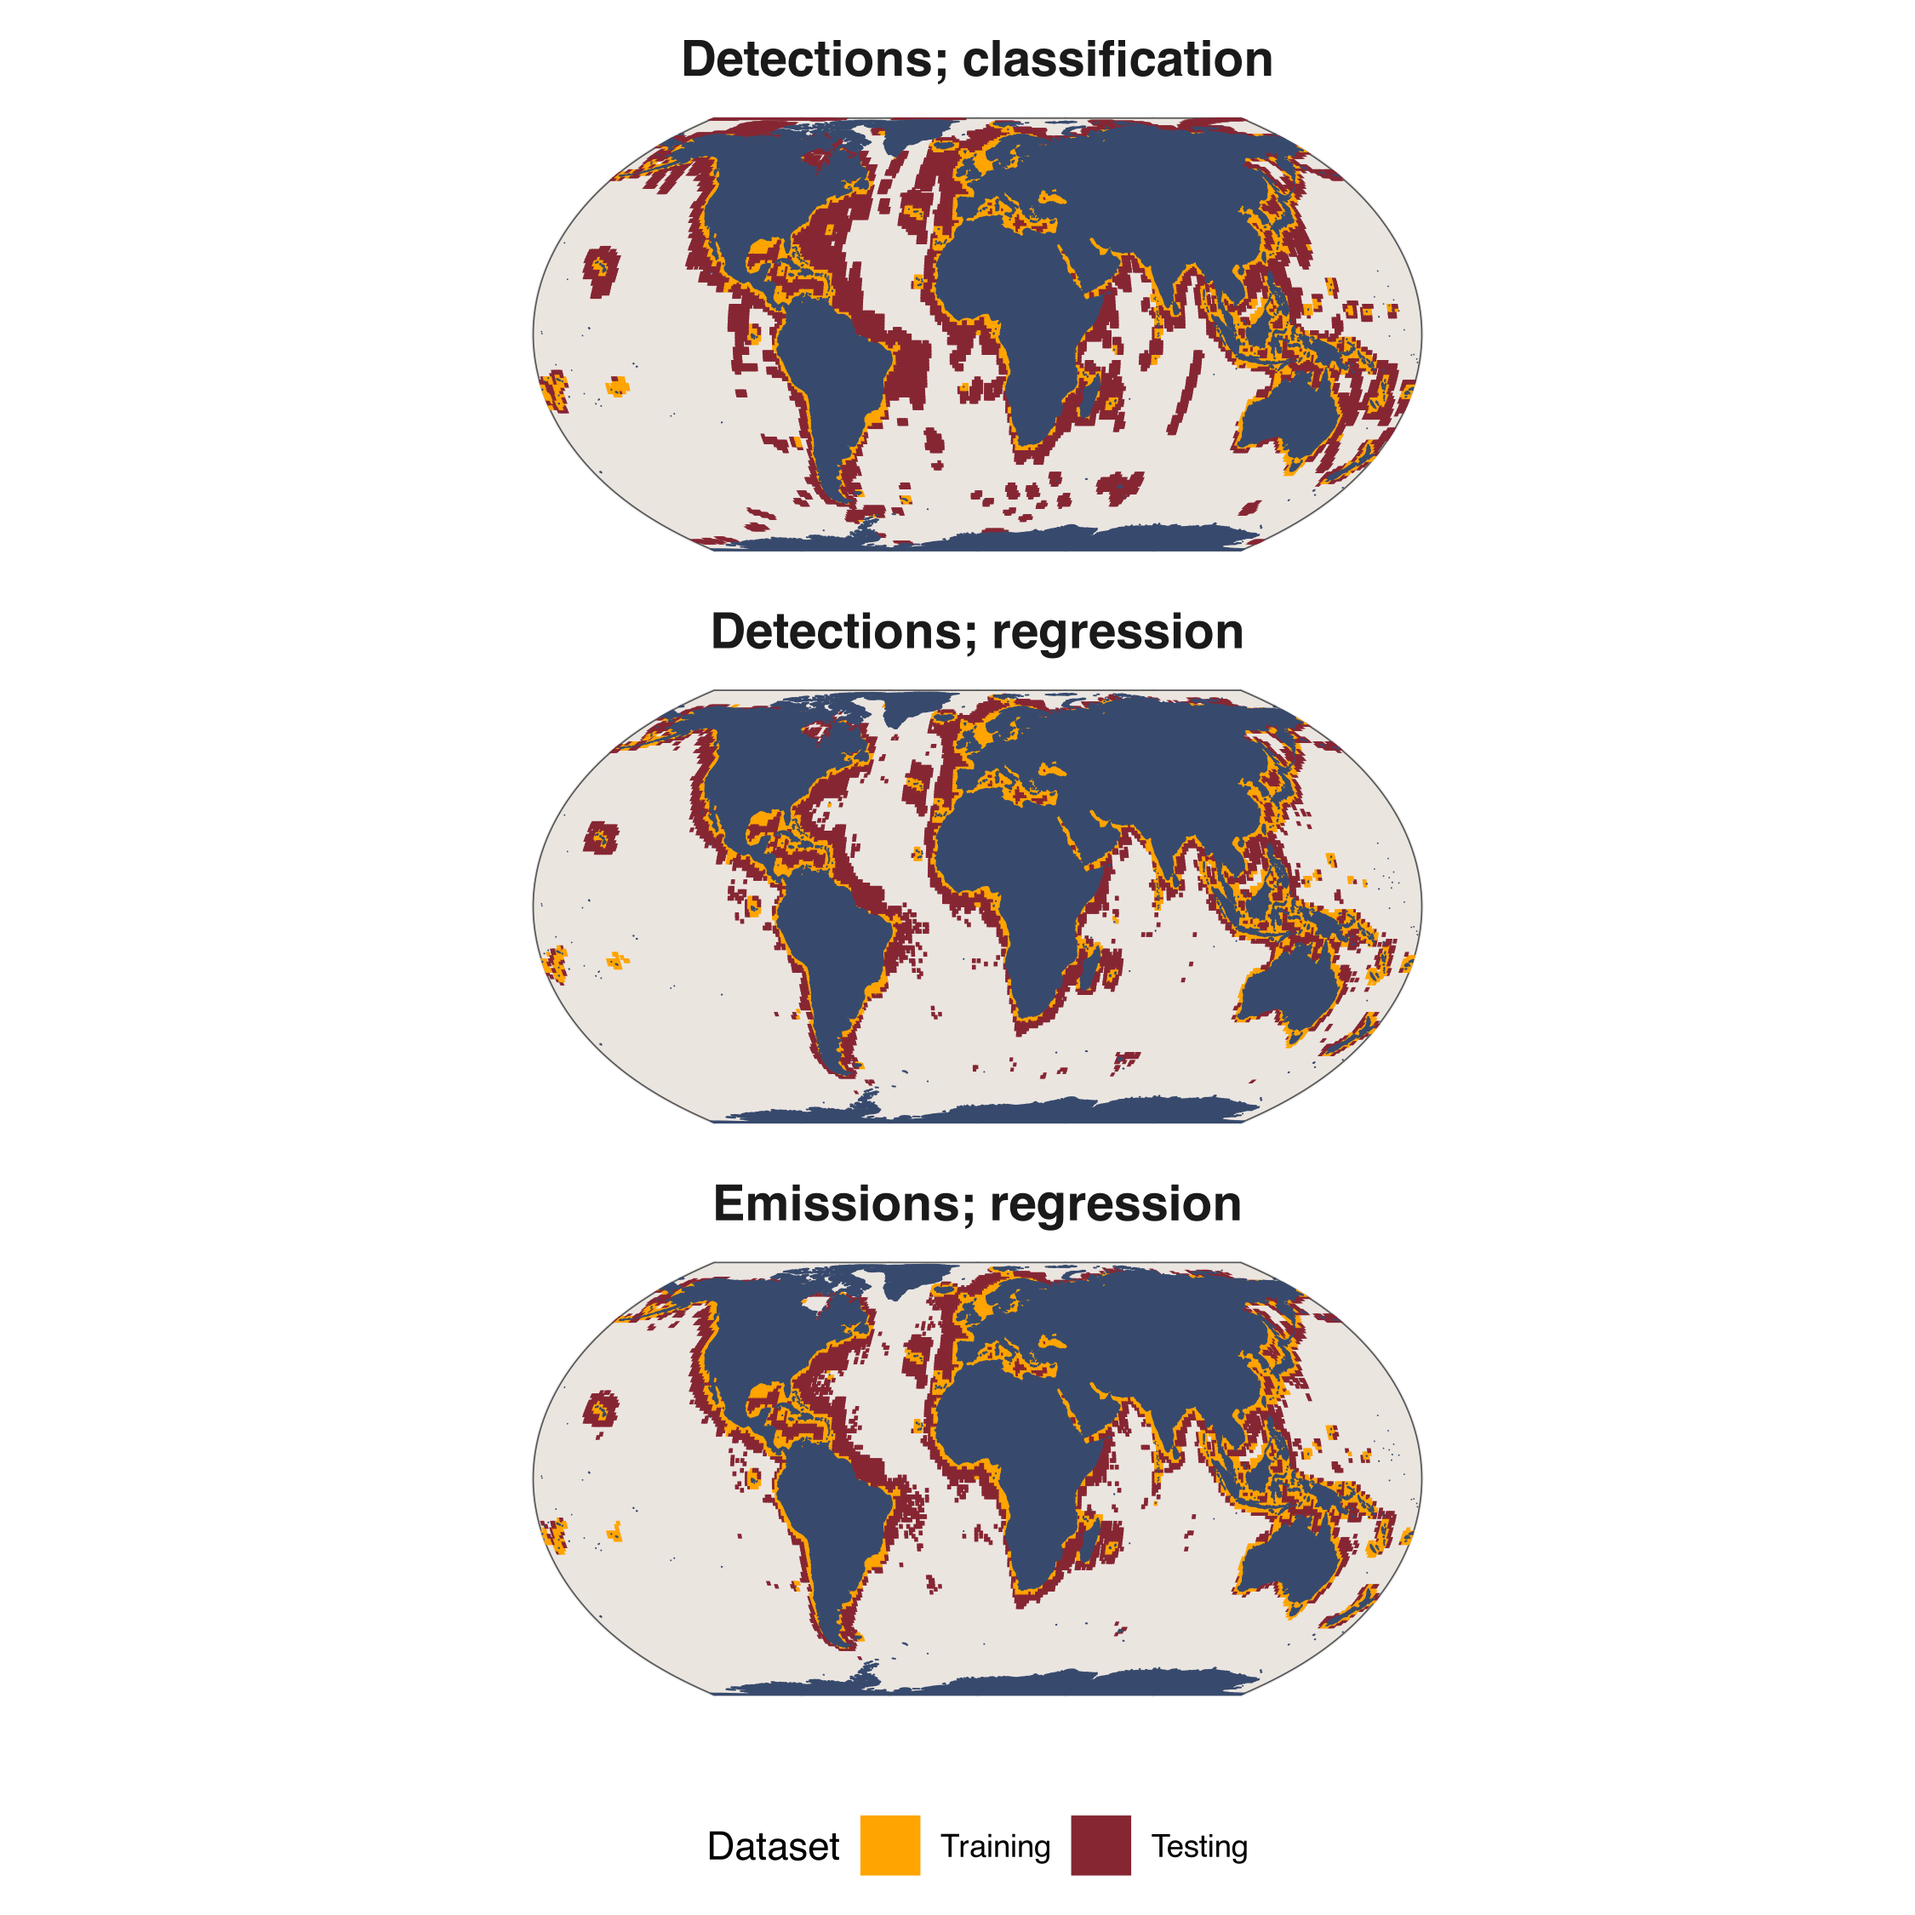
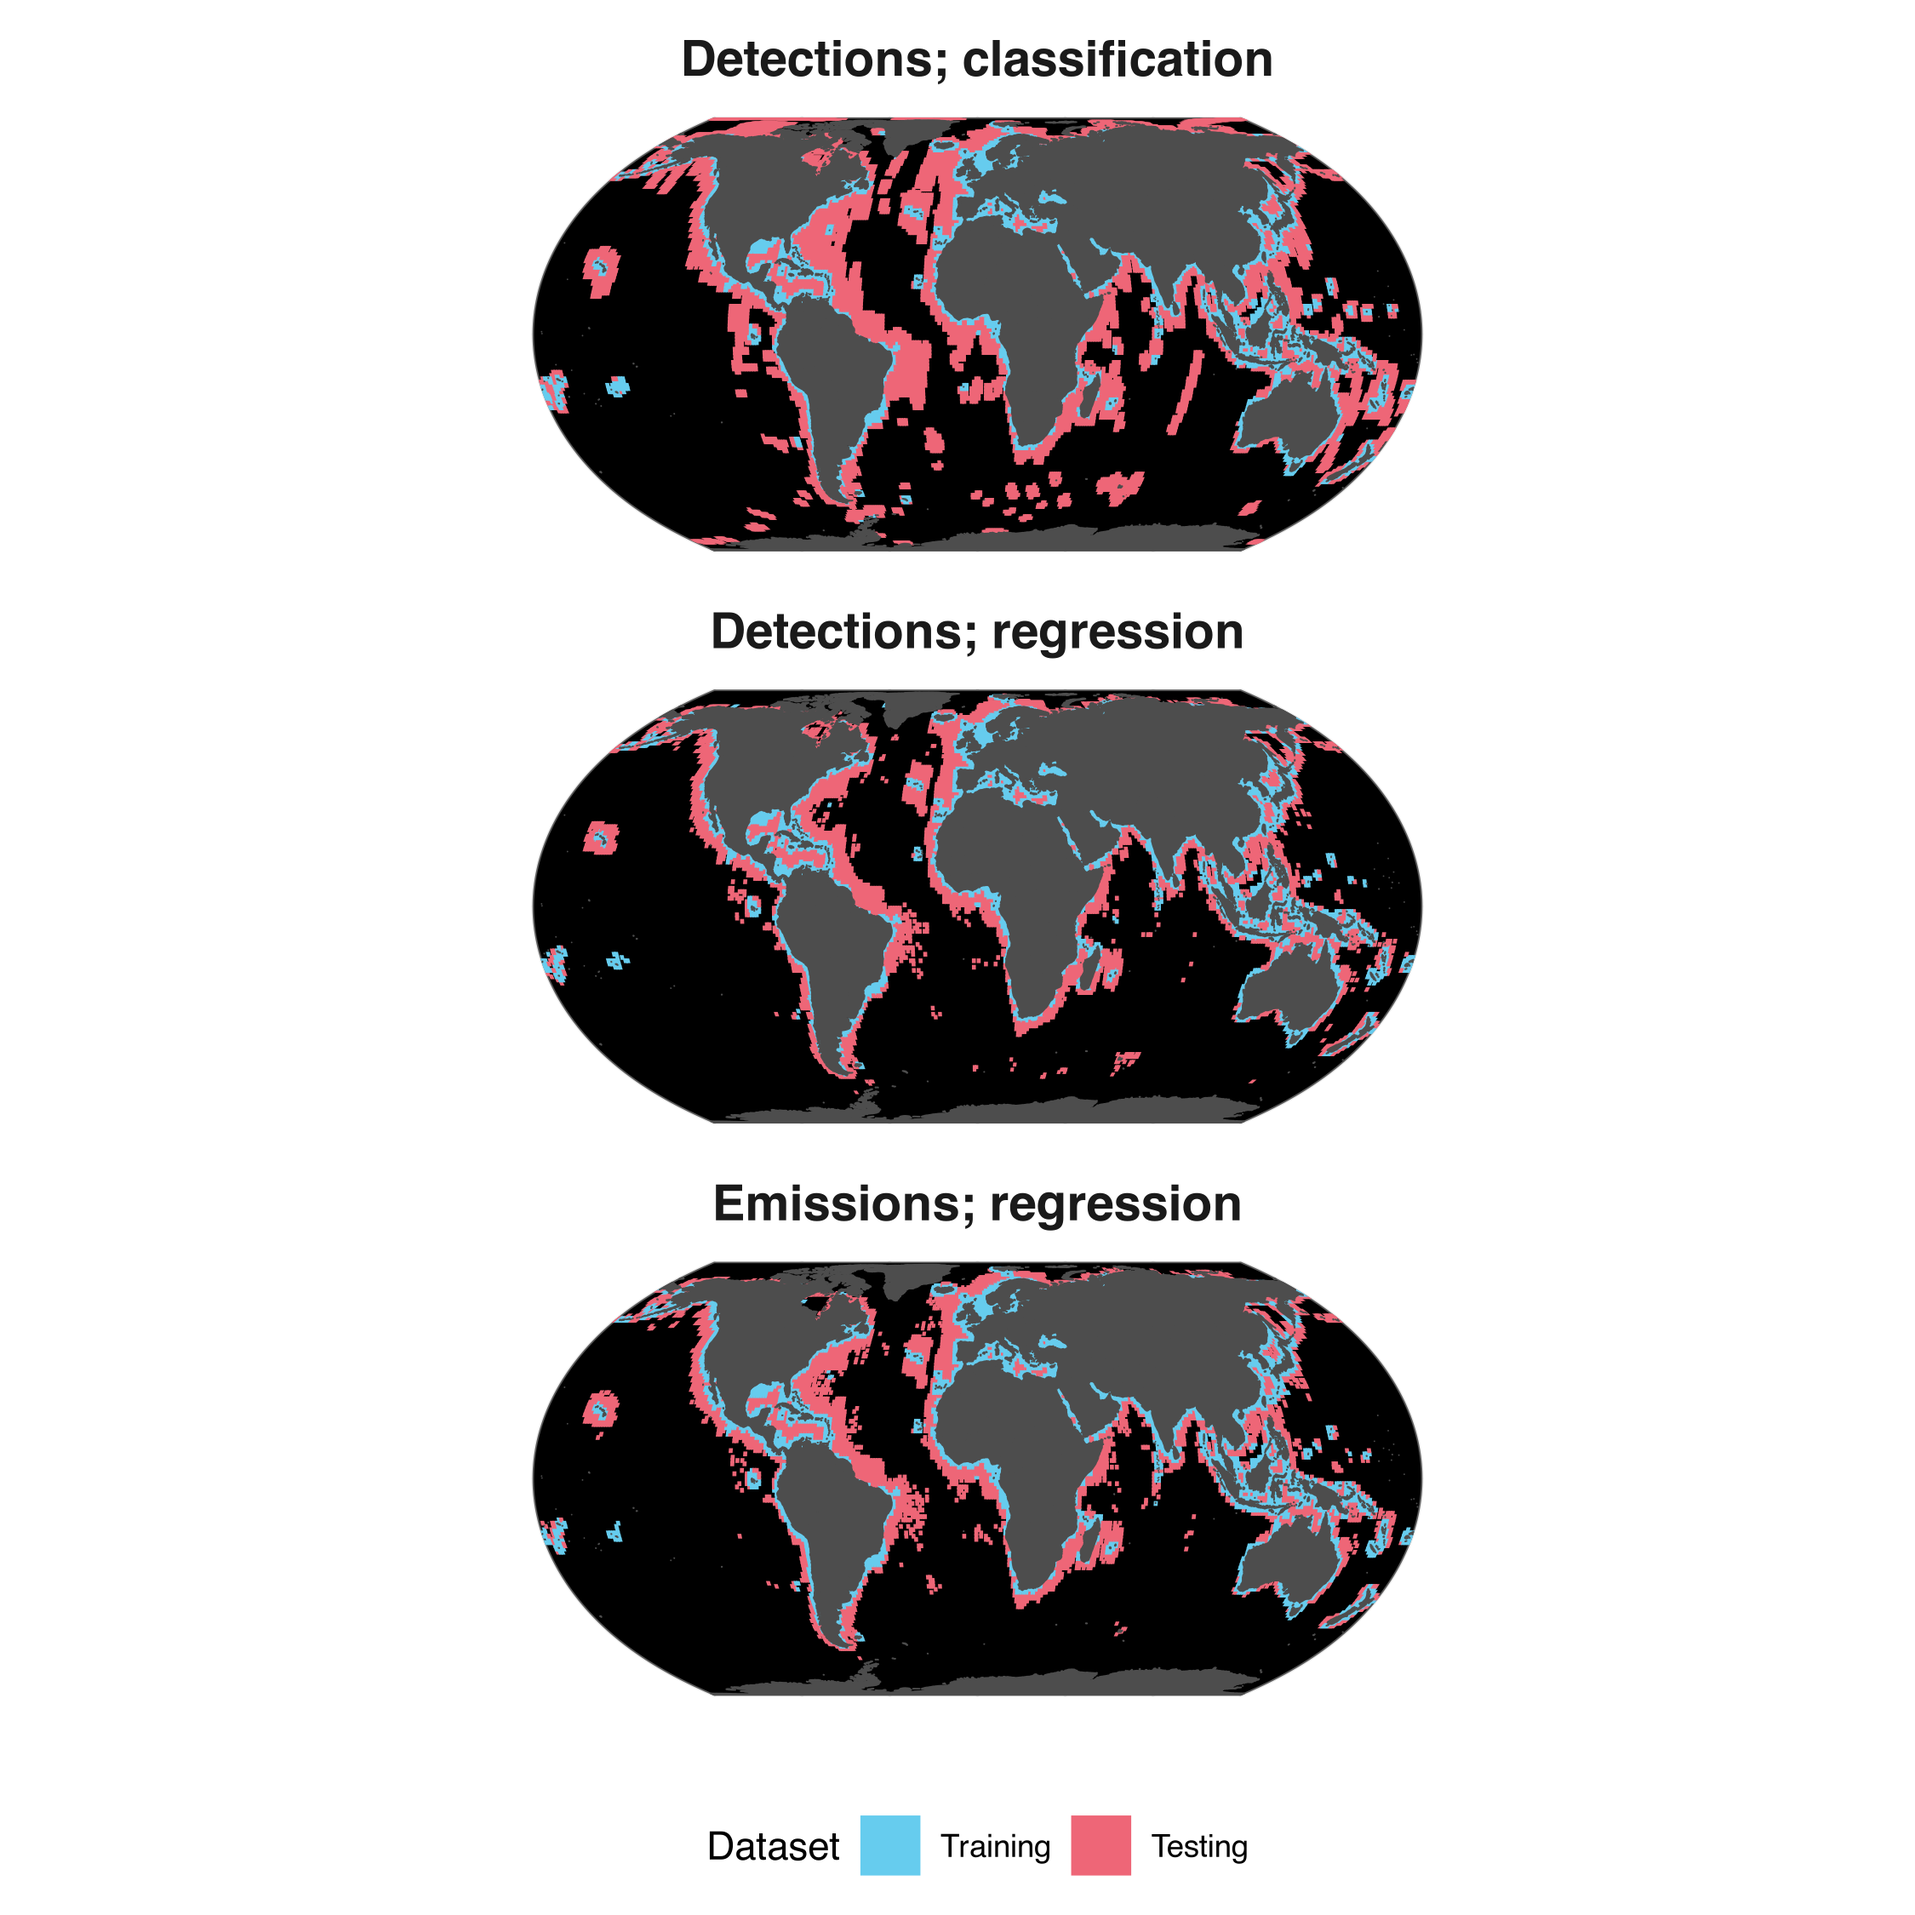
black map background

diff --git a/main.tex b/main.tex
@@ -24,6 +24,11 @@
 \usepackage{array}
 \usepackage{verbatim}
 \usepackage{url}
+% Keeps tables from floating past the text that follows them. The table
+% environment is a float, but sn-jnl.cls wraps its body in threeparttable, so
+% the [H] specifier used for every figure here errors out on tables. A
+% \FloatBarrier after each table gives the same in-source-order placement.
+\usepackage{placeins}
 
 % Make it so figures aren't forced to the bottom of pages
 \raggedbottom
@@ -246,6 +251,7 @@ We also validate our CO$_{2}$ emissions model results against public emissions d
 Our AIS-derived emissions dataset does not contain detailed information on vessel activity while in port (i.e., whether or not cargo is loaded/unloaded or passengers embark/disembark), making it difficult to determine the exact same trip start and end points as defined in the MRV data, as well as which trips are included in the MRV records for a given year and vessel. To align vessel yearly activity across datasets, we: (1) filter our trip-level emissions data to include only trips that begin and/or end in EEA countries; (2) aggregate these trip-level emissions to annual emissions for each vessel; (3) apply varying matching tolerance margins to the MRV-reported annual hours at sea and select vessels-year from our dataset within these limits, in order to ensure that the trips we use for comparison have a total hours at sea roughly equal to that reported in the MRV dataset; and (4) compare annual MRV emissions with the annual sum of our trip-level emissions for the same vessel and year to evaluate model performance.
 
 \input{tables/mrv_performance_results}
+\FloatBarrier
 
 In Table \ref{tab:tab-performance-tolerance-table}, performance peaks at a traditional R$^{2}$ of 0.84 for vessels whose times at sea in our dataset are within 15\% of the MRV-reported values (validation sample of 27,657 vessel-year observations, shown in Fig. \ref{fig:fig-mrv-performance}). Beyond this threshold, performance declines as discrepancies grow between our annual aggregated trip activity and that recorded in the MRV dataset.
 
@@ -315,6 +321,7 @@ We define a global spatial resolution of 1x1-degree which is used for all spatia
 \clearpage
 
 \input{tables/data_sources}
+\FloatBarrier
 
 \clearpage
 
@@ -417,6 +424,7 @@ For the CO$_2$ emissions regression random forest, we simply train the model on 
 
 
 \input{tables/all_performance_metrics_table}
+\FloatBarrier
 
 \subsubsection{Feature importance}
 
@@ -435,6 +443,7 @@ After assessing model performance, we perform a final fit using the entire datas
 Here we look at the linear regression fit statistics for the final models to convert CO$_2$ emissions to emissions of non-CO$_2$ gases (other GHGs and non-GHG pollutants), trained using the full dataset (Table \ref{tab:lm_other_gases_tidy_fit_stats}).
 
 \input{tables/lm_other_gases_tidy_fit_stats}
+\FloatBarrier
 
 \subsubsection{Predicting non-broadcasting emissions}
 
@@ -566,16 +575,22 @@ Tables S1 to S7\\
 \subsection{Supplementary Tables}
 
 \input{tables/total_percent_change_by_fleet}
+\FloatBarrier
 
 \input{tables/pollutant_ais_underestimation_overestimation_summary}
+\FloatBarrier
 
 \input{tables/emissions_by_ocean_summary_tbl}
+\FloatBarrier
 
 \input{tables/emissions_by_data_source_summary_tbl}
+\FloatBarrier
 
 \input{tables/annual_sc_fishing_non_fishing_tbl}
+\FloatBarrier
 
 \input{tables/top_countries_by_activity_type}
+\FloatBarrier
 
 \subsection{Comparing our emission estimates to other inventories}
 
@@ -589,6 +604,7 @@ Our total emissions estimates (summed across broadcasting and non-broadcasting v
 \end{figure}
 
 \input{tables/inventory_comparison}
+\FloatBarrier
 
 \subsection{Trends in AIS receiver types}
 
